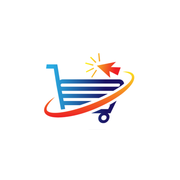
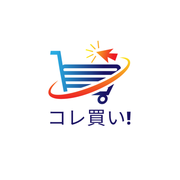
ヒーローをPCファーストビュー完結レイアウトに刷新＋円形ロゴ＋Instagram右下独立
- ヒーロー：左[見出し(2行目右ずらし/いいもの・届けるに赤下線)＋短い本文＋CTA2つ]／右[新ブロブ型イラスト(マルシェ・手書きラベル)]／下[横長NEWSカード]を1画面(min-height:calc(100vh-118px))に収める
- 新ヒーローイラスト hero-market.png（外周フラッドフィルで透過したブロブ）
- 円形ロゴ logo-circle.png をヘッダー＋faviconに採用（文字・カート非クリップ）
- フッターInstagramをPC右下に絶対配置で独立

Changed region(s): [[0.2222, 0.2222, 0.75, 0.7222]]

diff --git a/index.html b/index.html
@@ -17,8 +17,8 @@
 <link rel="preconnect" href="https://fonts.googleapis.com">
 <link rel="preconnect" href="https://fonts.gstatic.com" crossorigin>
 <link rel="stylesheet" href="https://fonts.googleapis.com/css2?family=Shippori+Mincho+B1:wght@500;700;800&family=Fraunces:opsz,wght@9..144,400;9..144,600;9..144,900&family=Noto+Sans+JP:wght@400;500;700&family=Yomogi&display=swap">
-<link rel="icon" type="image/png" sizes="64x64" href="/img/favicon-64.png"><link rel="icon" sizes="any" href="/img/mark.png"><link rel="apple-touch-icon" href="/img/apple-touch-icon.png">
-<link rel="stylesheet" href="style.css?v=20260605p">
+<link rel="icon" type="image/png" sizes="64x64" href="/img/favicon-64.png"><link rel="icon" sizes="any" href="/img/logo-circle.png"><link rel="apple-touch-icon" href="/img/apple-touch-icon.png">
+<link rel="stylesheet" href="style.css?v=20260605q">
 <style>
 /* =====================================================================
    HOME — Concept C（攻めリデザイン）＋ 2026-06-03 訂正
@@ -146,12 +146,52 @@
   .cz-split{gap:16px}
   .cz-lead{font-size:14.5px;line-height:1.75}
 }
+
+/* ===== ヒーロー：PCファーストビュー完結レイアウト（2026-06-05 ラフ準拠） ===== */
+.cz-hero{position:relative;overflow:hidden;border-bottom:1px solid var(--line);background:linear-gradient(180deg,var(--paper) 0%,var(--paper-2) 100%);min-height:calc(100vh - 118px);display:flex;flex-direction:column;padding:0}
+.cz-hero::before{content:"買";position:absolute;z-index:0;pointer-events:none;right:-.16em;top:-.2em;font-family:var(--f-disp);font-weight:800;font-size:clamp(240px,38vw,560px);line-height:.8;color:rgba(42,21,32,.045);transform:rotate(-6deg)}
+.cz-hero__in{position:relative;z-index:1;flex:1;display:grid;grid-template-columns:.92fr 1.08fr;gap:clamp(26px,4vw,64px);align-items:center;padding-top:clamp(16px,3vh,38px);padding-bottom:clamp(10px,2vh,22px)}
+.cz-hero__copy{min-width:0}
+.cz-eyebrow{margin-bottom:14px}
+.cz-title{font-family:var(--f-disp);font-weight:800;color:var(--ink);font-size:clamp(33px,4.5vw,55px);line-height:1.14;letter-spacing:.005em;margin:0;word-break:keep-all}
+.cz-title .ln{display:block;white-space:nowrap}
+.cz-title .l2{margin-left:1.2em}
+.cz-title em{font-style:normal;color:var(--ink);position:relative;display:inline-block}
+.cz-title em.uline::after{content:"";position:absolute;left:-.02em;right:-.02em;bottom:.02em;height:.13em;background:var(--shu);border-radius:6px;transform-origin:left center}
+@media (prefers-reduced-motion:no-preference){.cz-title em.uline::after{animation:czhl .8s var(--ease) .5s both}}
+.cz-lead{margin-top:clamp(16px,2.3vh,24px);font-size:clamp(15px,1.05vw,16.5px);line-height:1.9;color:var(--ink-soft);max-width:27em;word-break:keep-all;line-break:strict}
+.cz-cta{margin-top:clamp(18px,2.5vh,28px);display:flex;gap:14px;flex-wrap:wrap}
+.cz-cta .btn{padding:15px 26px;font-size:14.5px}
+.cz-hero__visual{position:relative;justify-self:center;width:100%}
+.cz-hero__visual img{display:block;width:100%;max-width:640px;height:auto;margin:0 auto;max-height:min(56vh,536px);object-fit:contain;filter:drop-shadow(0 26px 44px rgba(42,21,32,.2))}
+.cz-hero__hand{position:absolute;right:3%;bottom:7%;font-family:"Yomogi",var(--f-body);color:var(--shu);font-size:clamp(12px,1vw,15px);line-height:1.4;text-align:center;transform:rotate(-3deg);background:rgba(250,243,232,.82);padding:5px 11px;border-radius:10px;box-shadow:0 6px 16px -8px rgba(42,21,32,.3)}
+.cz-news{position:relative;z-index:1;display:flex;align-items:center;gap:clamp(12px,1.6vw,20px);width:calc(100% - 2*var(--gut));max-width:var(--max);margin:0 auto clamp(14px,2.2vh,24px);background:var(--white);border:1px solid var(--line);border-radius:14px;padding:13px clamp(16px,2vw,22px);box-shadow:0 14px 34px -22px rgba(42,21,32,.4);transition:transform .25s var(--ease),box-shadow .25s var(--ease)}
+.cz-news:hover{transform:translateY(-2px);box-shadow:0 18px 40px -20px rgba(42,21,32,.45)}
+.cz-news__tag{font-family:var(--f-lat);font-size:10px;font-weight:700;letter-spacing:.12em;background:var(--shu);color:#fff;padding:4px 11px;border-radius:100px;flex-shrink:0}
+.cz-news__date{font-family:var(--f-lat);font-weight:600;font-size:12.5px;color:var(--ink-soft);flex-shrink:0}
+.cz-news__ttl{flex:1;font-family:var(--f-disp);font-weight:700;font-size:clamp(13px,1.3vw,15px);color:var(--ink);line-height:1.5;min-width:0;overflow:hidden;text-overflow:ellipsis;white-space:nowrap}
+.cz-news__go{flex-shrink:0;font-family:var(--f-body);font-weight:700;font-size:13px;color:var(--shu);white-space:nowrap}
+@media(max-width:980px){
+  .cz-hero{min-height:0}
+  .cz-hero__in{grid-template-columns:1fr;gap:6px;padding-top:24px;padding-bottom:16px}
+  .cz-hero__visual{order:2;margin-top:16px}
+  .cz-hero__visual img{max-height:none;max-width:520px}
+  .cz-title .l2{margin-left:.4em}
+  .cz-news{flex-wrap:wrap;gap:7px 12px}
+  .cz-news__ttl{flex:1 1 100%;order:3;white-space:normal}
+}
+@media(max-width:600px){
+  .cz-title{font-size:clamp(30px,8.6vw,40px);line-height:1.17}
+  .cz-title .l2{margin-left:.3em}
+  .cz-lead{font-size:14.5px;line-height:1.78;max-width:none}
+  .cz-hero__hand{font-size:11.5px;right:4%;bottom:5%}
+}
 </style>
 </head>
 <body>
 <header class="hdr">
 <div class="wrap hdr__in">
-<a href="index.html" class="brand" aria-label="コレ買い！ ホーム"><img class="brand__mark" src="img/mark-h.png" alt="" aria-hidden="true"><span class="brand__name">コレ買い<span class="ex">！</span></span></a>
+<a href="index.html" class="brand" aria-label="コレ買い！ ホーム"><img class="brand__mark" src="img/logo-circle.png" alt="" aria-hidden="true"><span class="brand__name">コレ買い<span class="ex">！</span></span></a>
 <nav class="nav" aria-label="メインナビ"><a href="index.html" class="is-active">ホーム</a><span class="nav__has"><a href="about.html" class="nav__top">コレ買い！について <span class="caret" aria-hidden="true">▾</span></a><span class="nav__drop"><a href="method.html">仕組み詳細</a><a href="about.html">メンバー紹介</a><a href="testmarket.html">検証販売について</a><a href="support.html">支援内容の詳細</a></span></span><a href="products.html">取扱事例</a><a href="events.html">イベント</a><a href="producers.html">生産者の方へ</a></nav>
 <a href="contact.html" class="btn btn--shu hdr__cta">お問い合わせ</a>
 <button class="burger" id="burger" aria-label="メニュー" aria-expanded="false"><span class="burger__lines" aria-hidden="true"><i></i><i></i><i></i></span><span class="burger__txt">Menu</span></button>
@@ -161,58 +201,32 @@
 
 <main>
 
-<!-- ① HERO — A案コピー / 全幅タイトル（文節改行）/ メインビジュアルplaceholder。メニューはヘッダーの埋め込みボタンに統一 -->
+<!-- ① HERO — PCファーストビュー完結（左:コピー＋CTA / 右:大ブロブイラスト / 下:NEWS） -->
 <section class="cz-hero">
   <div class="cz-hero__in wrap">
-    <span class="eyebrow cz-eyebrow"><span class="seal">買</span>For Local Makers <span class="jp">／ 地方のつくり手を応援する学生団体</span></span>
-    <h1 class="cz-title">
-      <span class="ln">地方の&ldquo;いいもの&rdquo;を、</span>
-      <span class="ln">都市へ<em>届ける</em>。</span>
-    </h1>
-    <div class="cz-split">
-      <div class="cz-hero__copy">
-        <p class="cz-lead"><span class="big">つくり手を応援し、地域を元気に。</span>地方には、いいものを作っているのに都市に届いていないつくり手がいます。私たちはその逸品を都市へ届け、イベントや発信で知名度を広げ、地域を盛り上げる学生団体です。</p>
-        <div class="cz-cta">
-          <a href="about.html" class="btn btn--shu">コレ買い！とは <span class="arw" aria-hidden="true">→</span></a>
-          <a href="products.html" class="btn btn--line">取扱事例を見る <span class="arw" aria-hidden="true">→</span></a>
-        </div>
-        <div class="cz-tape">
-          <span><span class="n">01</span> 地方の逸品を都市へ</span>
-          <span><span class="n">02</span> つくり手を応援</span>
-          <span><span class="n">03</span> イベントで地域を活性化</span>
-        </div>
-      </div>
-
-      <div class="cz-blobwrap rv d1">
-        <figure class="cz-blob">
-          <img src="img/scene-city-market.jpg" alt="都市のマルシェで、学生が地域のあんず加工品を対面で販売している様子" width="456" height="518" loading="eager">
-        </figure>
+    <div class="cz-hero__copy">
+      <span class="eyebrow cz-eyebrow"><span class="seal">買</span>For Local Makers <span class="jp">／ 地方のつくり手を応援する学生団体</span></span>
+      <h1 class="cz-title">
+        <span class="ln l1">地方の&ldquo;<em class="uline">いいもの</em>&rdquo;を</span>
+        <span class="ln l2">都市へ<em class="uline">届ける</em>。</span>
+      </h1>
+      <p class="cz-lead">学生が現場で売って、反応を集めて、つくり手に返す。コレ買い！は、地方の逸品を都市へ届け、地域と都市をつなぐ学生チームです。</p>
+      <div class="cz-cta">
+        <a href="producers.html" class="btn btn--shu">生産者・自治体の方へ <span class="arw" aria-hidden="true">→</span></a>
+        <a href="about.html" class="btn btn--line">私たちを知る <span class="arw" aria-hidden="true">→</span></a>
       </div>
     </div>
-  </div>
-</section>
-
-<!-- ② 最新情報 -->
-<section class="news">
-  <div class="wrap news__in">
-    <div class="news__head rv">
-      <span class="eyebrow">News <span class="jp">／ 最新情報</span></span>
-    </div>
-    <div class="newslist rv d1">
-      <a class="newsrow" href="events.html">
-        <span class="newsrow__date">2026.6</span>
-        <span class="newsrow__tag">Event</span>
-        <span class="newsrow__ttl">あんず収穫インターン（6/20-21・6/27-28）参加者募集中</span>
-        <span class="newsrow__go" aria-hidden="true">→</span>
-      </a>
-      <a class="newsrow" href="events.html">
-        <span class="newsrow__date">2026.6.28</span>
-        <span class="newsrow__tag">Fair</span>
-        <span class="newsrow__ttl">ちくまあんずフェアに出展予定 ― 詳細は後日公開</span>
-        <span class="newsrow__go" aria-hidden="true">→</span>
-      </a>
+    <div class="cz-hero__visual rv d1">
+      <img src="img/hero-market.png" alt="都市のマルシェで、学生が地域のあんず加工品を客に手渡している様子" loading="eager" width="1370" height="928">
+      <span class="cz-hero__hand">出会いが、<br>地域の未来を育てる。</span>
     </div>
   </div>
+  <a class="cz-news" href="events.html" aria-label="最新情報を見る">
+    <span class="cz-news__tag">NEWS</span>
+    <span class="cz-news__date">2026.6</span>
+    <span class="cz-news__ttl">あんず収穫インターン（6/20-21・6/27-28）参加者募集中</span>
+    <span class="cz-news__go">お知らせ一覧 <span aria-hidden="true">→</span></span>
+  </a>
 </section>
 
 <!-- 私たちがすること（斜めの面・朱→金） -->
@@ -317,6 +331,6 @@
 </footer>
 
 <!-- メニュー開閉は app.js で統一管理 -->
-<script src="app.js?v=20260605p"></script>
+<script src="app.js?v=20260605q"></script>
 </body>
 </html>

diff --git a/style.css b/style.css
@@ -298,3 +298,14 @@ body.menu-open .hdr__cta{visibility:hidden}
 .cta-band h2 em{color:var(--shu)}
 .cta-band .btn--oninK.ghost{color:var(--ink);border-color:var(--ink-soft)}
 .cta-band .btn--oninK.ghost:hover{background:var(--ink);color:#fff;border-color:var(--ink)}
+
+/* 円形ロゴ（ヘッダーのブランドマーク） */
+.brand__mark{height:42px;width:42px;border-radius:50%;object-fit:contain;display:block;transform:none;background:none;box-shadow:none}
+@media(max-width:600px){.brand__mark{height:38px;width:38px}}
+
+/* フッターInstagramを右下に独立配置（PC：絶対配置／SP：通常フロー） */
+.ft .wrap{position:relative}
+.ft__social{margin-top:18px}
+@media(min-width:781px){
+  .ft__social{position:absolute;right:0;bottom:0;margin-top:0}
+}

diff --git a/about.html b/about.html
@@ -17,14 +17,14 @@
 <link rel="preconnect" href="https://fonts.googleapis.com" />
 <link rel="preconnect" href="https://fonts.gstatic.com" crossorigin />
 <link href="https://fonts.googleapis.com/css2?family=Shippori+Mincho+B1:wght@500;700;800&family=Fraunces:opsz,wght@9..144,400;9..144,600;9..144,900&family=Noto+Sans+JP:wght@400;500;700&display=swap" rel="stylesheet" />
-<link rel="icon" type="image/png" sizes="64x64" href="/img/favicon-64.png"><link rel="icon" sizes="any" href="/img/mark.png"><link rel="apple-touch-icon" href="/img/apple-touch-icon.png">
-<link rel="stylesheet" href="style.css?v=20260605p" />
+<link rel="icon" type="image/png" sizes="64x64" href="/img/favicon-64.png"><link rel="icon" sizes="any" href="/img/logo-circle.png"><link rel="apple-touch-icon" href="/img/apple-touch-icon.png">
+<link rel="stylesheet" href="style.css?v=20260605q" />
 </head>
 <body>
 
 <header class="hdr">
 <div class="wrap hdr__in">
-<a href="index.html" class="brand" aria-label="コレ買い！ ホーム"><img class="brand__mark" src="img/mark-h.png" alt="" aria-hidden="true"><span class="brand__name">コレ買い<span class="ex">！</span></span></a>
+<a href="index.html" class="brand" aria-label="コレ買い！ ホーム"><img class="brand__mark" src="img/logo-circle.png" alt="" aria-hidden="true"><span class="brand__name">コレ買い<span class="ex">！</span></span></a>
 <nav class="nav" aria-label="メインナビ"><a href="index.html">ホーム</a><span class="nav__has"><a href="about.html" class="nav__top is-active">コレ買い！について <span class="caret" aria-hidden="true">▾</span></a><span class="nav__drop"><a href="method.html">仕組み詳細</a><a href="about.html">メンバー紹介</a><a href="testmarket.html">検証販売について</a><a href="support.html">支援内容の詳細</a></span></span><a href="products.html">取扱事例</a><a href="events.html">イベント</a><a href="producers.html">生産者の方へ</a></nav>
 <a href="contact.html" class="btn btn--shu hdr__cta">お問い合わせ</a>
 <button class="burger" id="burger" aria-label="メニュー" aria-expanded="false"><span class="burger__lines" aria-hidden="true"><i></i><i></i><i></i></span><span class="burger__txt">Menu</span></button>
@@ -120,6 +120,6 @@
 </div>
 </footer>
 
-<script src="app.js?v=20260605p"></script>
+<script src="app.js?v=20260605q"></script>
 </body>
 </html>

diff --git a/contact.html b/contact.html
@@ -17,15 +17,15 @@
 <link rel="preconnect" href="https://fonts.googleapis.com" />
 <link rel="preconnect" href="https://fonts.gstatic.com" crossorigin />
 <link href="https://fonts.googleapis.com/css2?family=Shippori+Mincho+B1:wght@500;700;800&family=Fraunces:opsz,wght@9..144,400;9..144,600;9..144,900&family=Noto+Sans+JP:wght@400;500;700&display=swap" rel="stylesheet" />
-<link rel="icon" type="image/png" sizes="64x64" href="/img/favicon-64.png"><link rel="icon" sizes="any" href="/img/mark.png"><link rel="apple-touch-icon" href="/img/apple-touch-icon.png">
-<link rel="stylesheet" href="style.css?v=20260605p" />
+<link rel="icon" type="image/png" sizes="64x64" href="/img/favicon-64.png"><link rel="icon" sizes="any" href="/img/logo-circle.png"><link rel="apple-touch-icon" href="/img/apple-touch-icon.png">
+<link rel="stylesheet" href="style.css?v=20260605q" />
 </head>
 <body>
 
 <header class="hdr">
   <div class="wrap hdr__in">
     <a href="index.html" class="brand" aria-label="コレ買い！ ホーム">
-      <img class="brand__mark" src="img/mark-h.png" alt="" aria-hidden="true">
+      <img class="brand__mark" src="img/logo-circle.png" alt="" aria-hidden="true">
       <span class="brand__name">コレ買い<span class="ex">！</span></span>
     </a>
     <nav class="nav" aria-label="メインナビ"><a href="index.html">ホーム</a><span class="nav__has"><a href="about.html" class="nav__top">コレ買い！について <span class="caret" aria-hidden="true">▾</span></a><span class="nav__drop"><a href="method.html">仕組み詳細</a><a href="about.html">メンバー紹介</a><a href="testmarket.html">検証販売について</a><a href="support.html">支援内容の詳細</a></span></span><a href="products.html">取扱事例</a><a href="events.html">イベント</a><a href="producers.html">生産者の方へ</a></nav>
@@ -137,6 +137,6 @@
   </div>
 </footer>
 
-<script src="app.js?v=20260605p"></script>
+<script src="app.js?v=20260605q"></script>
 </body>
 </html>

diff --git a/events.html b/events.html
@@ -17,8 +17,8 @@
 <link rel="preconnect" href="https://fonts.googleapis.com" />
 <link rel="preconnect" href="https://fonts.gstatic.com" crossorigin />
 <link href="https://fonts.googleapis.com/css2?family=Shippori+Mincho+B1:wght@500;700;800&family=Fraunces:opsz,wght@9..144,400;9..144,600;9..144,900&family=Noto+Sans+JP:wght@400;500;700&display=swap" rel="stylesheet" />
-<link rel="icon" type="image/png" sizes="64x64" href="/img/favicon-64.png"><link rel="icon" sizes="any" href="/img/mark.png"><link rel="apple-touch-icon" href="/img/apple-touch-icon.png">
-<link rel="stylesheet" href="style.css?v=20260605p" />
+<link rel="icon" type="image/png" sizes="64x64" href="/img/favicon-64.png"><link rel="icon" sizes="any" href="/img/logo-circle.png"><link rel="apple-touch-icon" href="/img/apple-touch-icon.png">
+<link rel="stylesheet" href="style.css?v=20260605q" />
 <script type="application/ld+json">
 [
 {"@context":"https://schema.org","@type":"Event","name":"コレ買い！あんず収穫インターン（第1回）","startDate":"2026-06-20","endDate":"2026-06-21","eventAttendanceMode":"https://schema.org/OfflineEventAttendanceMode","eventStatus":"https://schema.org/EventScheduled","location":{"@type":"Place","name":"工房アプリコ","address":{"@type":"PostalAddress","addressRegion":"長野県","addressLocality":"千曲市","addressCountry":"JP"}},"organizer":{"@type":"Organization","name":"コレ買い！","url":"https://korekai26.com/"},"url":"https://korekai26.com/events"},
@@ -31,7 +31,7 @@
 <header class="hdr">
   <div class="wrap hdr__in">
     <a href="index.html" class="brand" aria-label="コレ買い！ ホーム">
-      <img class="brand__mark" src="img/mark-h.png" alt="" aria-hidden="true">
+      <img class="brand__mark" src="img/logo-circle.png" alt="" aria-hidden="true">
       <span class="brand__name">コレ買い<span class="ex">！</span></span>
     </a>
     <nav class="nav" aria-label="メインナビ"><a href="index.html">ホーム</a><span class="nav__has"><a href="about.html" class="nav__top">コレ買い！について <span class="caret" aria-hidden="true">▾</span></a><span class="nav__drop"><a href="method.html">仕組み詳細</a><a href="about.html">メンバー紹介</a><a href="testmarket.html">検証販売について</a><a href="support.html">支援内容の詳細</a></span></span><a href="products.html">取扱事例</a><a href="events.html" class="is-active">イベント</a><a href="producers.html">生産者の方へ</a></nav>
@@ -175,6 +175,6 @@
   </div>
 </footer>
 
-<script src="app.js?v=20260605p"></script>
+<script src="app.js?v=20260605q"></script>
 </body>
 </html>

diff --git a/method.html b/method.html
@@ -17,14 +17,14 @@
 <link rel="preconnect" href="https://fonts.googleapis.com" />
 <link rel="preconnect" href="https://fonts.gstatic.com" crossorigin />
 <link href="https://fonts.googleapis.com/css2?family=Shippori+Mincho+B1:wght@500;700;800&family=Fraunces:opsz,wght@9..144,400;9..144,600;9..144,900&family=Noto+Sans+JP:wght@400;500;700&display=swap" rel="stylesheet" />
-<link rel="icon" type="image/png" sizes="64x64" href="/img/favicon-64.png"><link rel="icon" sizes="any" href="/img/mark.png"><link rel="apple-touch-icon" href="/img/apple-touch-icon.png">
-<link rel="stylesheet" href="style.css?v=20260605p" />
+<link rel="icon" type="image/png" sizes="64x64" href="/img/favicon-64.png"><link rel="icon" sizes="any" href="/img/logo-circle.png"><link rel="apple-touch-icon" href="/img/apple-touch-icon.png">
+<link rel="stylesheet" href="style.css?v=20260605q" />
 </head>
 <body>
 
 <header class="hdr">
 <div class="wrap hdr__in">
-<a href="index.html" class="brand" aria-label="コレ買い！ ホーム"><img class="brand__mark" src="img/mark-h.png" alt="" aria-hidden="true"><span class="brand__name">コレ買い<span class="ex">！</span></span></a>
+<a href="index.html" class="brand" aria-label="コレ買い！ ホーム"><img class="brand__mark" src="img/logo-circle.png" alt="" aria-hidden="true"><span class="brand__name">コレ買い<span class="ex">！</span></span></a>
 <nav class="nav" aria-label="メインナビ"><a href="index.html">ホーム</a><span class="nav__has"><a href="about.html" class="nav__top is-active">コレ買い！について <span class="caret" aria-hidden="true">▾</span></a><span class="nav__drop"><a href="method.html">仕組み詳細</a><a href="about.html">メンバー紹介</a><a href="testmarket.html">検証販売について</a><a href="support.html">支援内容の詳細</a></span></span><a href="products.html">取扱事例</a><a href="events.html">イベント</a><a href="producers.html">生産者の方へ</a></nav>
 <a href="contact.html" class="btn btn--shu hdr__cta">お問い合わせ</a>
 <button class="burger" id="burger" aria-label="メニュー" aria-expanded="false"><span class="burger__lines" aria-hidden="true"><i></i><i></i><i></i></span><span class="burger__txt">Menu</span></button>
@@ -140,6 +140,6 @@
 </div>
 </footer>
 
-<script src="app.js?v=20260605p"></script>
+<script src="app.js?v=20260605q"></script>
 </body>
 </html>

diff --git a/producers.html b/producers.html
@@ -17,14 +17,14 @@
 <link rel="preconnect" href="https://fonts.googleapis.com" />
 <link rel="preconnect" href="https://fonts.gstatic.com" crossorigin />
 <link href="https://fonts.googleapis.com/css2?family=Shippori+Mincho+B1:wght@500;700;800&family=Fraunces:opsz,wght@9..144,400;9..144,600;9..144,900&family=Noto+Sans+JP:wght@400;500;700&display=swap" rel="stylesheet" />
-<link rel="icon" type="image/png" sizes="64x64" href="/img/favicon-64.png"><link rel="icon" sizes="any" href="/img/mark.png"><link rel="apple-touch-icon" href="/img/apple-touch-icon.png">
-<link rel="stylesheet" href="style.css?v=20260605p" />
+<link rel="icon" type="image/png" sizes="64x64" href="/img/favicon-64.png"><link rel="icon" sizes="any" href="/img/logo-circle.png"><link rel="apple-touch-icon" href="/img/apple-touch-icon.png">
+<link rel="stylesheet" href="style.css?v=20260605q" />
 </head>
 <body>
 
 <header class="hdr">
 <div class="wrap hdr__in">
-<a href="index.html" class="brand" aria-label="コレ買い！ ホーム"><img class="brand__mark" src="img/mark-h.png" alt="" aria-hidden="true"><span class="brand__name">コレ買い<span class="ex">！</span></span></a>
+<a href="index.html" class="brand" aria-label="コレ買い！ ホーム"><img class="brand__mark" src="img/logo-circle.png" alt="" aria-hidden="true"><span class="brand__name">コレ買い<span class="ex">！</span></span></a>
 <nav class="nav" aria-label="メインナビ"><a href="index.html">ホーム</a><span class="nav__has"><a href="about.html" class="nav__top">コレ買い！について <span class="caret" aria-hidden="true">▾</span></a><span class="nav__drop"><a href="method.html">仕組み詳細</a><a href="about.html">メンバー紹介</a><a href="testmarket.html">検証販売について</a><a href="support.html">支援内容の詳細</a></span></span><a href="products.html">取扱事例</a><a href="events.html">イベント</a><a href="producers.html" class="is-active">生産者の方へ</a></nav>
 <a href="contact.html" class="btn btn--shu hdr__cta">お問い合わせ</a>
 <button class="burger" id="burger" aria-label="メニュー" aria-expanded="false"><span class="burger__lines" aria-hidden="true"><i></i><i></i><i></i></span><span class="burger__txt">Menu</span></button>
@@ -104,6 +104,6 @@
 </div>
 </footer>
 
-<script src="app.js?v=20260605p"></script>
+<script src="app.js?v=20260605q"></script>
 </body>
 </html>

diff --git a/products.html b/products.html
@@ -17,14 +17,14 @@
 <link rel="preconnect" href="https://fonts.googleapis.com" />
 <link rel="preconnect" href="https://fonts.gstatic.com" crossorigin />
 <link href="https://fonts.googleapis.com/css2?family=Shippori+Mincho+B1:wght@500;700;800&family=Fraunces:opsz,wght@9..144,400;9..144,600;9..144,900&family=Noto+Sans+JP:wght@400;500;700&display=swap" rel="stylesheet" />
-<link rel="icon" type="image/png" sizes="64x64" href="/img/favicon-64.png"><link rel="icon" sizes="any" href="/img/mark.png"><link rel="apple-touch-icon" href="/img/apple-touch-icon.png">
-<link rel="stylesheet" href="style.css?v=20260605p" />
+<link rel="icon" type="image/png" sizes="64x64" href="/img/favicon-64.png"><link rel="icon" sizes="any" href="/img/logo-circle.png"><link rel="apple-touch-icon" href="/img/apple-touch-icon.png">
+<link rel="stylesheet" href="style.css?v=20260605q" />
 </head>
 <body>
 
 <header class="hdr">
 <div class="wrap hdr__in">
-<a href="index.html" class="brand" aria-label="コレ買い！ ホーム"><img class="brand__mark" src="img/mark-h.png" alt="" aria-hidden="true"><span class="brand__name">コレ買い<span class="ex">！</span></span></a>
+<a href="index.html" class="brand" aria-label="コレ買い！ ホーム"><img class="brand__mark" src="img/logo-circle.png" alt="" aria-hidden="true"><span class="brand__name">コレ買い<span class="ex">！</span></span></a>
 <nav class="nav" aria-label="メインナビ"><a href="index.html">ホーム</a><span class="nav__has"><a href="about.html" class="nav__top">コレ買い！について <span class="caret" aria-hidden="true">▾</span></a><span class="nav__drop"><a href="method.html">仕組み詳細</a><a href="about.html">メンバー紹介</a><a href="testmarket.html">検証販売について</a><a href="support.html">支援内容の詳細</a></span></span><a href="products.html" class="is-active">取扱事例</a><a href="events.html">イベント</a><a href="producers.html">生産者の方へ</a></nav>
 <a href="contact.html" class="btn btn--shu hdr__cta">お問い合わせ</a>
 <button class="burger" id="burger" aria-label="メニュー" aria-expanded="false"><span class="burger__lines" aria-hidden="true"><i></i><i></i><i></i></span><span class="burger__txt">Menu</span></button>
@@ -168,6 +168,6 @@
 </div>
 </footer>
 
-<script src="app.js?v=20260605p"></script>
+<script src="app.js?v=20260605q"></script>
 </body>
 </html>

diff --git a/support.html b/support.html
@@ -17,13 +17,13 @@
 <link rel="preconnect" href="https://fonts.googleapis.com" />
 <link rel="preconnect" href="https://fonts.gstatic.com" crossorigin />
 <link href="https://fonts.googleapis.com/css2?family=Shippori+Mincho+B1:wght@500;700;800&family=Fraunces:opsz,wght@9..144,400;9..144,600;9..144,900&family=Noto+Sans+JP:wght@400;500;700&display=swap" rel="stylesheet" />
-<link rel="icon" type="image/png" sizes="64x64" href="/img/favicon-64.png"><link rel="icon" sizes="any" href="/img/mark.png"><link rel="apple-touch-icon" href="/img/apple-touch-icon.png">
-<link rel="stylesheet" href="style.css?v=20260605p" />
+<link rel="icon" type="image/png" sizes="64x64" href="/img/favicon-64.png"><link rel="icon" sizes="any" href="/img/logo-circle.png"><link rel="apple-touch-icon" href="/img/apple-touch-icon.png">
+<link rel="stylesheet" href="style.css?v=20260605q" />
 </head>
 <body>
 <header class="hdr">
 <div class="wrap hdr__in">
-<a href="index.html" class="brand" aria-label="コレ買い！ ホーム"><img class="brand__mark" src="img/mark-h.png" alt="" aria-hidden="true"><span class="brand__name">コレ買い<span class="ex">！</span></span></a>
+<a href="index.html" class="brand" aria-label="コレ買い！ ホーム"><img class="brand__mark" src="img/logo-circle.png" alt="" aria-hidden="true"><span class="brand__name">コレ買い<span class="ex">！</span></span></a>
 <nav class="nav" aria-label="メインナビ"><a href="index.html">ホーム</a><span class="nav__has"><a href="about.html" class="nav__top is-active">コレ買い！について <span class="caret" aria-hidden="true">▾</span></a><span class="nav__drop"><a href="method.html">仕組み詳細</a><a href="about.html">メンバー紹介</a><a href="testmarket.html">検証販売について</a><a href="support.html">支援内容の詳細</a></span></span><a href="products.html">取扱事例</a><a href="events.html">イベント</a><a href="producers.html">生産者の方へ</a></nav>
 <a href="contact.html" class="btn btn--shu hdr__cta">お問い合わせ</a>
 <button class="burger" id="burger" aria-label="メニュー" aria-expanded="false"><span class="burger__lines" aria-hidden="true"><i></i><i></i><i></i></span><span class="burger__txt">Menu</span></button>
@@ -108,6 +108,6 @@
 <p class="ft__copy">© 2026 KOREKAI — Retail × Market Research for Regional Products.</p>
 </div>
 </footer>
-<script src="app.js?v=20260605p"></script>
+<script src="app.js?v=20260605q"></script>
 </body>
 </html>

diff --git a/testmarket.html b/testmarket.html
@@ -17,14 +17,14 @@
 <link rel="preconnect" href="https://fonts.googleapis.com" />
 <link rel="preconnect" href="https://fonts.gstatic.com" crossorigin />
 <link href="https://fonts.googleapis.com/css2?family=Shippori+Mincho+B1:wght@500;700;800&family=Fraunces:opsz,wght@9..144,400;9..144,600;9..144,900&family=Noto+Sans+JP:wght@400;500;700&display=swap" rel="stylesheet" />
-<link rel="icon" type="image/png" sizes="64x64" href="/img/favicon-64.png"><link rel="icon" sizes="any" href="/img/mark.png"><link rel="apple-touch-icon" href="/img/apple-touch-icon.png">
-<link rel="stylesheet" href="style.css?v=20260605p" />
+<link rel="icon" type="image/png" sizes="64x64" href="/img/favicon-64.png"><link rel="icon" sizes="any" href="/img/logo-circle.png"><link rel="apple-touch-icon" href="/img/apple-touch-icon.png">
+<link rel="stylesheet" href="style.css?v=20260605q" />
 </head>
 <body>
 
 <header class="hdr">
 <div class="wrap hdr__in">
-<a href="index.html" class="brand" aria-label="コレ買い！ ホーム"><img class="brand__mark" src="img/mark-h.png" alt="" aria-hidden="true"><span class="brand__name">コレ買い<span class="ex">！</span></span></a>
+<a href="index.html" class="brand" aria-label="コレ買い！ ホーム"><img class="brand__mark" src="img/logo-circle.png" alt="" aria-hidden="true"><span class="brand__name">コレ買い<span class="ex">！</span></span></a>
 <nav class="nav" aria-label="メインナビ"><a href="index.html">ホーム</a><span class="nav__has"><a href="about.html" class="nav__top is-active">コレ買い！について <span class="caret" aria-hidden="true">▾</span></a><span class="nav__drop"><a href="method.html">仕組み詳細</a><a href="about.html">メンバー紹介</a><a href="testmarket.html">検証販売について</a><a href="support.html">支援内容の詳細</a></span></span><a href="products.html">取扱事例</a><a href="events.html">イベント</a><a href="producers.html">生産者の方へ</a></nav>
 <a href="contact.html" class="btn btn--shu hdr__cta">お問い合わせ</a>
 <button class="burger" id="burger" aria-label="メニュー" aria-expanded="false"><span class="burger__lines" aria-hidden="true"><i></i><i></i><i></i></span><span class="burger__txt">Menu</span></button>
@@ -151,6 +151,6 @@
 </div>
 </footer>
 
-<script src="app.js?v=20260605p"></script>
+<script src="app.js?v=20260605q"></script>
 </body>
 </html>